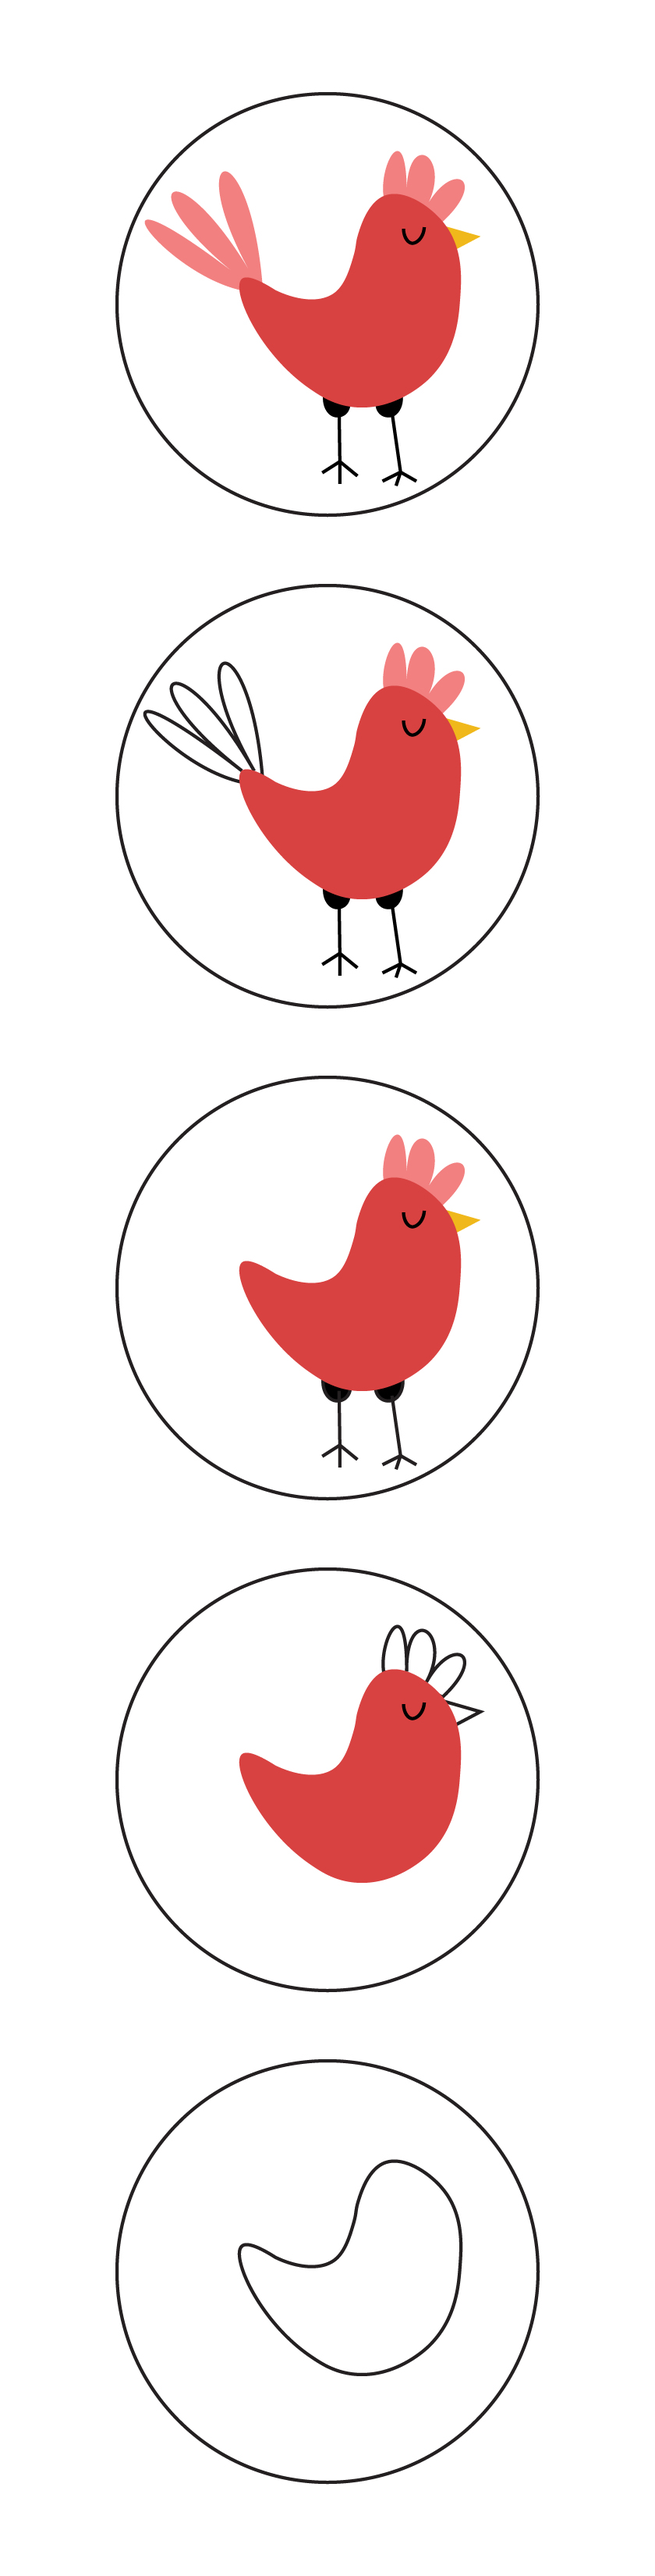
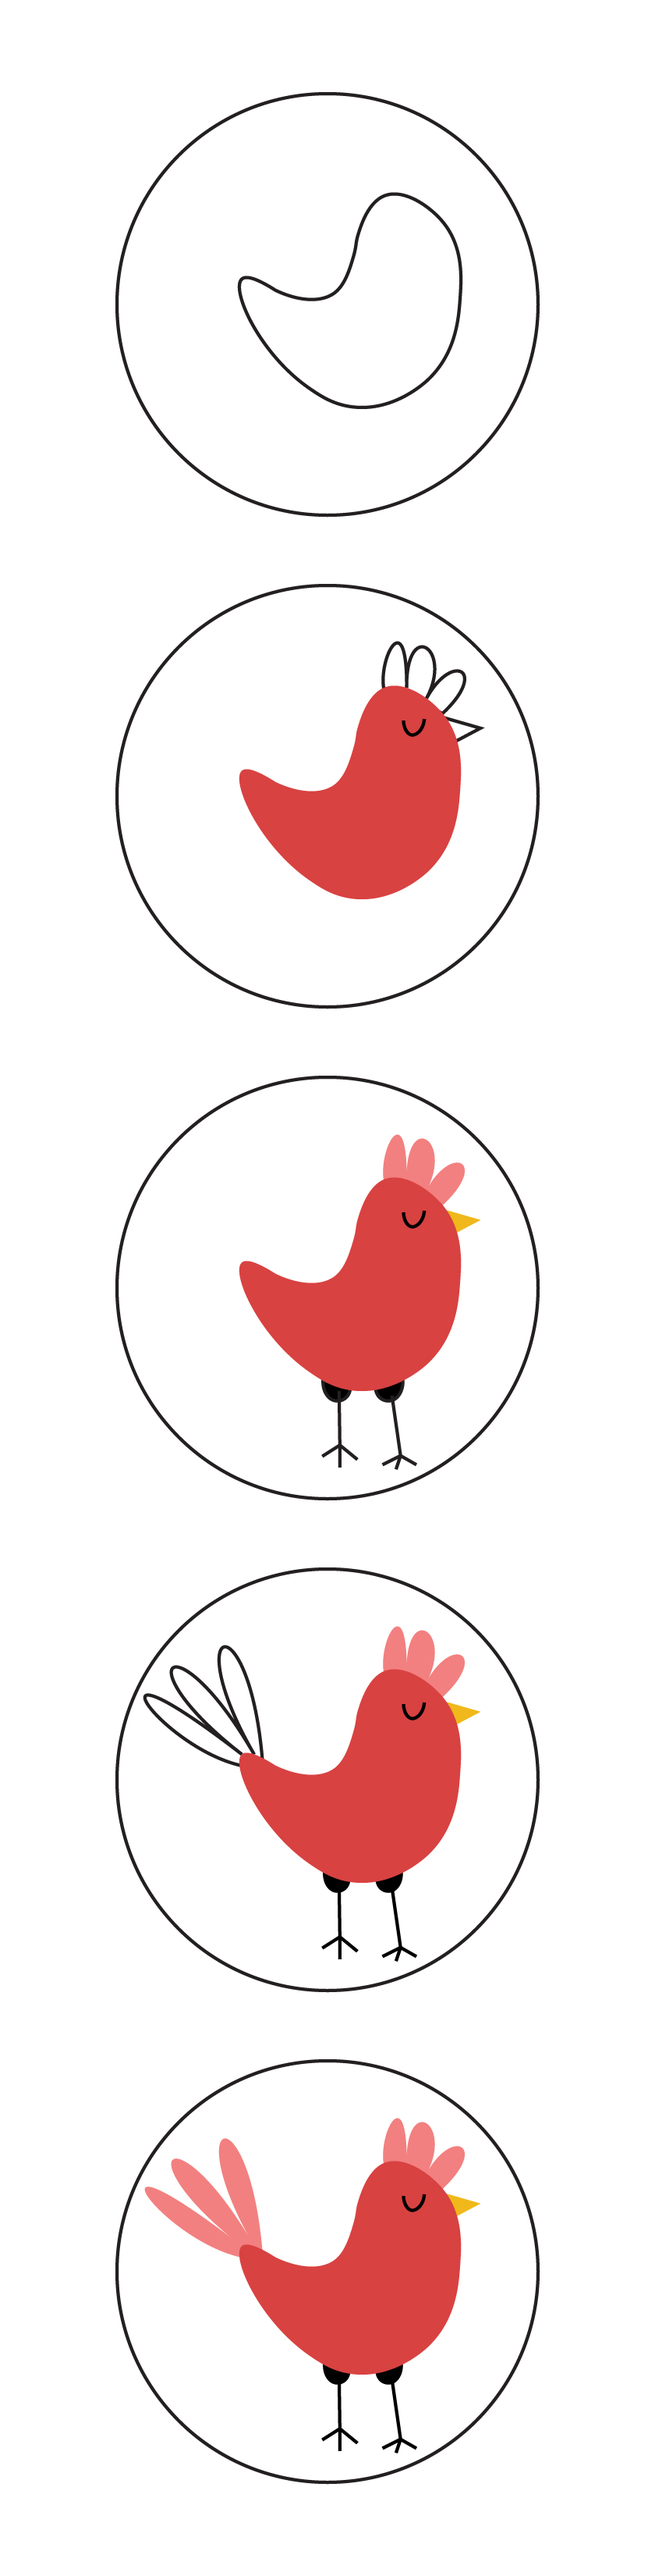
Red Hen Drawing Guide

diff --git a/redhen.html b/redhen.html
@@ -101,10 +101,10 @@
     </nav>
     <header>
       <div style="background-color: white">
-        <div class="container py-5">
+        <div class="container py-4">
           <div class="row">
             <div class="col-lg-7">
-              <img class="mx-auto d-block w-100" src="images/myRedHen.jpg" alt="drawing lesson red hen" />
+              <img class="mx-auto d-block w-100" src="images/myRedHen.jpg" alt="red hen" />
             </div>
             <div class="col p-3">
               <h1>
@@ -120,6 +120,67 @@
       </div>
     </header>
     <main>
+      <div class="container">
+        <div class="row">
+          <div class="col pb-4">
+            <h2>Step 1: Read Aloud</h2>
+            <p>
+              Read The Little Red Hen by Byron Barton. There are several different versions, but this one has the simplest words. Lorem ipsum dolor sit amet, consetetur sadipscing elitr, sed
+              diam nonumy eirmod tempor. Lorem ipsum dolor sit amet, consetetur sadipscing elitr, sed diam nonumy eirmod tempor.
+            </p>
+          </div>
+        </div>
+        <div class="row">
+          <div class="col-lg-6">
+            <h2>Step 2: White Board</h2>
+            <p>
+              Use the drawing guides to demonstrate drawings of a hen on the white board.
+            </p>
+          </div>
+          <div class="col">
+            <img class="mx-auto d-block w-100 px-5" src="images/teachRedHen.jpg" alt="drawing guide for red hen" />
+          </div>
+        </div>
+        <div class="row">
+          <div class="col-lg-6">
+            <h2>Step 3: Rough Draft</h2>
+          <p>In this lesson we are going to make storytelling pieces. First, the child will practice their drawing on the rough draft paper and begin thinking about the script for storytelling. We'll write some of that script here on the lines below the drawing. Later, we will transfer the drawing to watercolor paper to be painted, cut out, and attached to sandpaper. The sentence on the sample rough draft is only a suggestion. Let the child decide what part of the script to write on the lines.</p>
+          </div>
+          <div class="col">
+            <img class="mx-auto d-block w-100" src="images/storyRedHen.jpg" alt="script for red hen" />
+          </div>
+        </div>
+        <div class="row">
+          <div class="col-lg-6">
+            <h2>Step 4: Add Text</h2>
+          <p>For this step, I recommend using 3x24 inch sentence strips. I buy mine on Amazon in packs of 100. In the last step we began thinking about our storytelling script. We are not going to write out the entire story, but lets write out a few sentences that will be useful for reading practice later. Think simple: Not I, said the pig. Not I, said the cow. Not I, said the dog.</p>
+          </div>
+        </div>
+        <div class="row">
+          <h2>Step 5: Trace or Digitize</h2>
+          <p>
+            Lorem ipsum dolor sit amet, consetetur sadipscing elitr, sed
+            diam nonumy eirmod tempor. Lorem ipsum dolor sit amet, consetetur sadipscing elitr, sed
+            diam nonumy eirmod tempor.
+          </p>
+        </div>
+        <div class="row">
+          <h2>Step 6: Color</h2>
+          <p>
+            Lorem ipsum dolor sit amet, consetetur sadipscing elitr, sed
+            diam nonumy eirmod tempor. Lorem ipsum dolor sit amet, consetetur sadipscing elitr, sed
+            diam nonumy eirmod tempor.
+          </p>
+        </div>
+        <div class="row">
+          <h2>Step 7: Read, Read, and Read Again</h2>
+          <p>
+            Lorem ipsum dolor sit amet, consetetur sadipscing elitr, sed
+            diam nonumy eirmod tempor. Lorem ipsum dolor sit amet, consetetur sadipscing elitr, sed
+            diam nonumy eirmod tempor.
+          </p>
+        </div>
+      </div>
       
     </main>
     <footer class="container-fluid bg-dark text-white text-center">
@@ -133,7 +194,7 @@
           </a>
         </div>
       </div>
-      <div class="row pt-2" style="background-color: #f6ce57; color: black">
+      <div class="row pt-2" style="background-color: #333333">
         <p><small>&#169;2022 Sherrisa Classon</small></p>
       </div>
     </footer>

diff --git a/index.html b/index.html
@@ -82,10 +82,10 @@
       <div style="background-color: white">
         <div class="container py-5">
           <div class="row">
-            <div class="col-lg-7">
+            <div class="col-lg-7 pb-3">
               <img class="mx-auto d-block w-100" src="images/dotscircles.JPG" alt="Kinsley painting at Mimi's house" />
             </div>
-            <div class="col p-3">
+            <div class="col">
               <h1>
                 Engage emergent readers through drawing, painting, and
                 creative writing.
@@ -105,7 +105,7 @@
         </div>
       </div>
     </header>
-    <div class="container py-4" style="background-color: #f6ce57">
+    <div class="container-fluid py-4" style="background-color: #f6ce57">
       <div class="row">
         <div class="col">
           <h2 class="mt-5 text-center" style="color: white">
@@ -158,7 +158,7 @@
     </div>
 
     <!-- Carousel -->
-    <div class="container" style="background-color: #a0b4f2">
+    <div class="container-fluid" style="background-color: #a0b4f2">
       <div class="row text-center" style="color: white">
         <h2 class="mt-5">Art Gallery</h2>
         <p>(Display Student Work Here)</p3>
@@ -206,7 +206,7 @@
         </a>
       </div>
     </div>
-    <div class="row pt-2" style="background-color: #f6ce57; color: black">
+    <div class="row pt-2" style="background-color: #333333">
       <p><small>&#169;2022 Sherrisa Classon</small></p>
     </div>
   </footer>

diff --git a/antfarm.html b/antfarm.html
@@ -133,7 +133,7 @@
           </a>
         </div>
       </div>
-      <div class="row pt-2" style="background-color: #f6ce57; color: black">
+      <div class="row pt-2" style="background-color: #333333">
         <p><small>&#169;2022 Sherrisa Classon</small></p>
       </div>
     </footer>

diff --git a/falltrees.html b/falltrees.html
@@ -131,7 +131,7 @@
           </a>
         </div>
       </div>
-      <div class="row pt-2" style="background-color: #f6ce57; color: black">
+      <div class="row pt-2" style="background-color: #333333">
         <p><small>&#169;2022 Sherrisa Classon</small></p>
       </div>
     </footer>

diff --git a/fisherman.html b/fisherman.html
@@ -133,7 +133,7 @@
           </a>
         </div>
       </div>
-      <div class="row pt-2" style="background-color: #f6ce57; color: black">
+      <div class="row pt-2" style="background-color: #333333">
         <p><small>&#169;2022 Sherrisa Classon</small></p>
       </div>
     </footer>

diff --git a/inuits.html b/inuits.html
@@ -131,7 +131,7 @@
           </a>
         </div>
       </div>
-      <div class="row pt-2" style="background-color: #f6ce57; color: black">
+      <div class="row pt-2" style="background-color: #333333">
         <p><small>&#169;2022 Sherrisa Classon</small></p>
       </div>
     </footer>

diff --git a/snails.html b/snails.html
@@ -134,7 +134,7 @@
           </a>
         </div>
       </div>
-      <div class="row pt-2" style="background-color: #f6ce57; color: black">
+      <div class="row pt-2" style="background-color: #333333">
         <p><small>&#169;2022 Sherrisa Classon</small></p>
       </div>
     </footer>

diff --git a/styles.css b/styles.css
@@ -10,6 +10,12 @@ h1 {
     font-weight: 600;
 }
 
+/* to justify text */
+p {
+    text-align: justify;
+    text-justify: inter-word;
+}
+
 a, a:visited {
     color: white;
     text-decoration: none;
